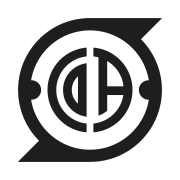
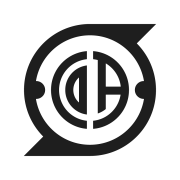
ファビコンを白い縁取り＋背景透過にする
元のファビコンと同じ扱いに戻す。マークの外側だけを塗りつぶし判定で拾って
透過にし、文字を形づくる内側の白は残す。そのうえで外周を膨張させた白い縁取りを
付け、ダークモードのタブでも黒に沈まないようにする。
白い下地の板を敷かずに済むため、明るいタブでは背景に溶け込む。

Changed region(s): [[0.0833, 0.0833, 0.9167, 0.9167]]

diff --git a/resources/views/layouts/app.blade.php b/resources/views/layouts/app.blade.php
@@ -8,11 +8,11 @@
         <title>{{ config('app.name', 'Laravel') }}</title>
 
         {{-- ファビコン。差し替えてもブラウザが古い画像を握り続けるため ?v= を付ける。 --}}
-        <link rel="icon" href="{{ asset('favicon.ico') }}?v=3" sizes="any">
-        <link rel="icon" type="image/png" sizes="32x32" href="{{ asset('favicon-32.png') }}?v=3">
-        <link rel="icon" type="image/png" sizes="192x192" href="{{ asset('favicon-192.png') }}?v=3">
-        <link rel="icon" type="image/png" sizes="512x512" href="{{ asset('favicon-512.png') }}?v=3">
-        <link rel="apple-touch-icon" href="{{ asset('apple-touch-icon.png') }}?v=3">
+        <link rel="icon" href="{{ asset('favicon.ico') }}?v=4" sizes="any">
+        <link rel="icon" type="image/png" sizes="32x32" href="{{ asset('favicon-32.png') }}?v=4">
+        <link rel="icon" type="image/png" sizes="192x192" href="{{ asset('favicon-192.png') }}?v=4">
+        <link rel="icon" type="image/png" sizes="512x512" href="{{ asset('favicon-512.png') }}?v=4">
+        <link rel="apple-touch-icon" href="{{ asset('apple-touch-icon.png') }}?v=4">
 
         <!-- Fonts -->
         <link rel="preconnect" href="https://fonts.bunny.net">

diff --git a/resources/views/layouts/guest.blade.php b/resources/views/layouts/guest.blade.php
@@ -8,11 +8,11 @@
         <title>{{ config('app.name', 'Laravel') }}</title>
 
         {{-- ファビコン。差し替えてもブラウザが古い画像を握り続けるため ?v= を付ける。 --}}
-        <link rel="icon" href="{{ asset('favicon.ico') }}?v=3" sizes="any">
-        <link rel="icon" type="image/png" sizes="32x32" href="{{ asset('favicon-32.png') }}?v=3">
-        <link rel="icon" type="image/png" sizes="192x192" href="{{ asset('favicon-192.png') }}?v=3">
-        <link rel="icon" type="image/png" sizes="512x512" href="{{ asset('favicon-512.png') }}?v=3">
-        <link rel="apple-touch-icon" href="{{ asset('apple-touch-icon.png') }}?v=3">
+        <link rel="icon" href="{{ asset('favicon.ico') }}?v=4" sizes="any">
+        <link rel="icon" type="image/png" sizes="32x32" href="{{ asset('favicon-32.png') }}?v=4">
+        <link rel="icon" type="image/png" sizes="192x192" href="{{ asset('favicon-192.png') }}?v=4">
+        <link rel="icon" type="image/png" sizes="512x512" href="{{ asset('favicon-512.png') }}?v=4">
+        <link rel="apple-touch-icon" href="{{ asset('apple-touch-icon.png') }}?v=4">
 
         <!-- Fonts -->
         <link rel="preconnect" href="https://fonts.bunny.net">
